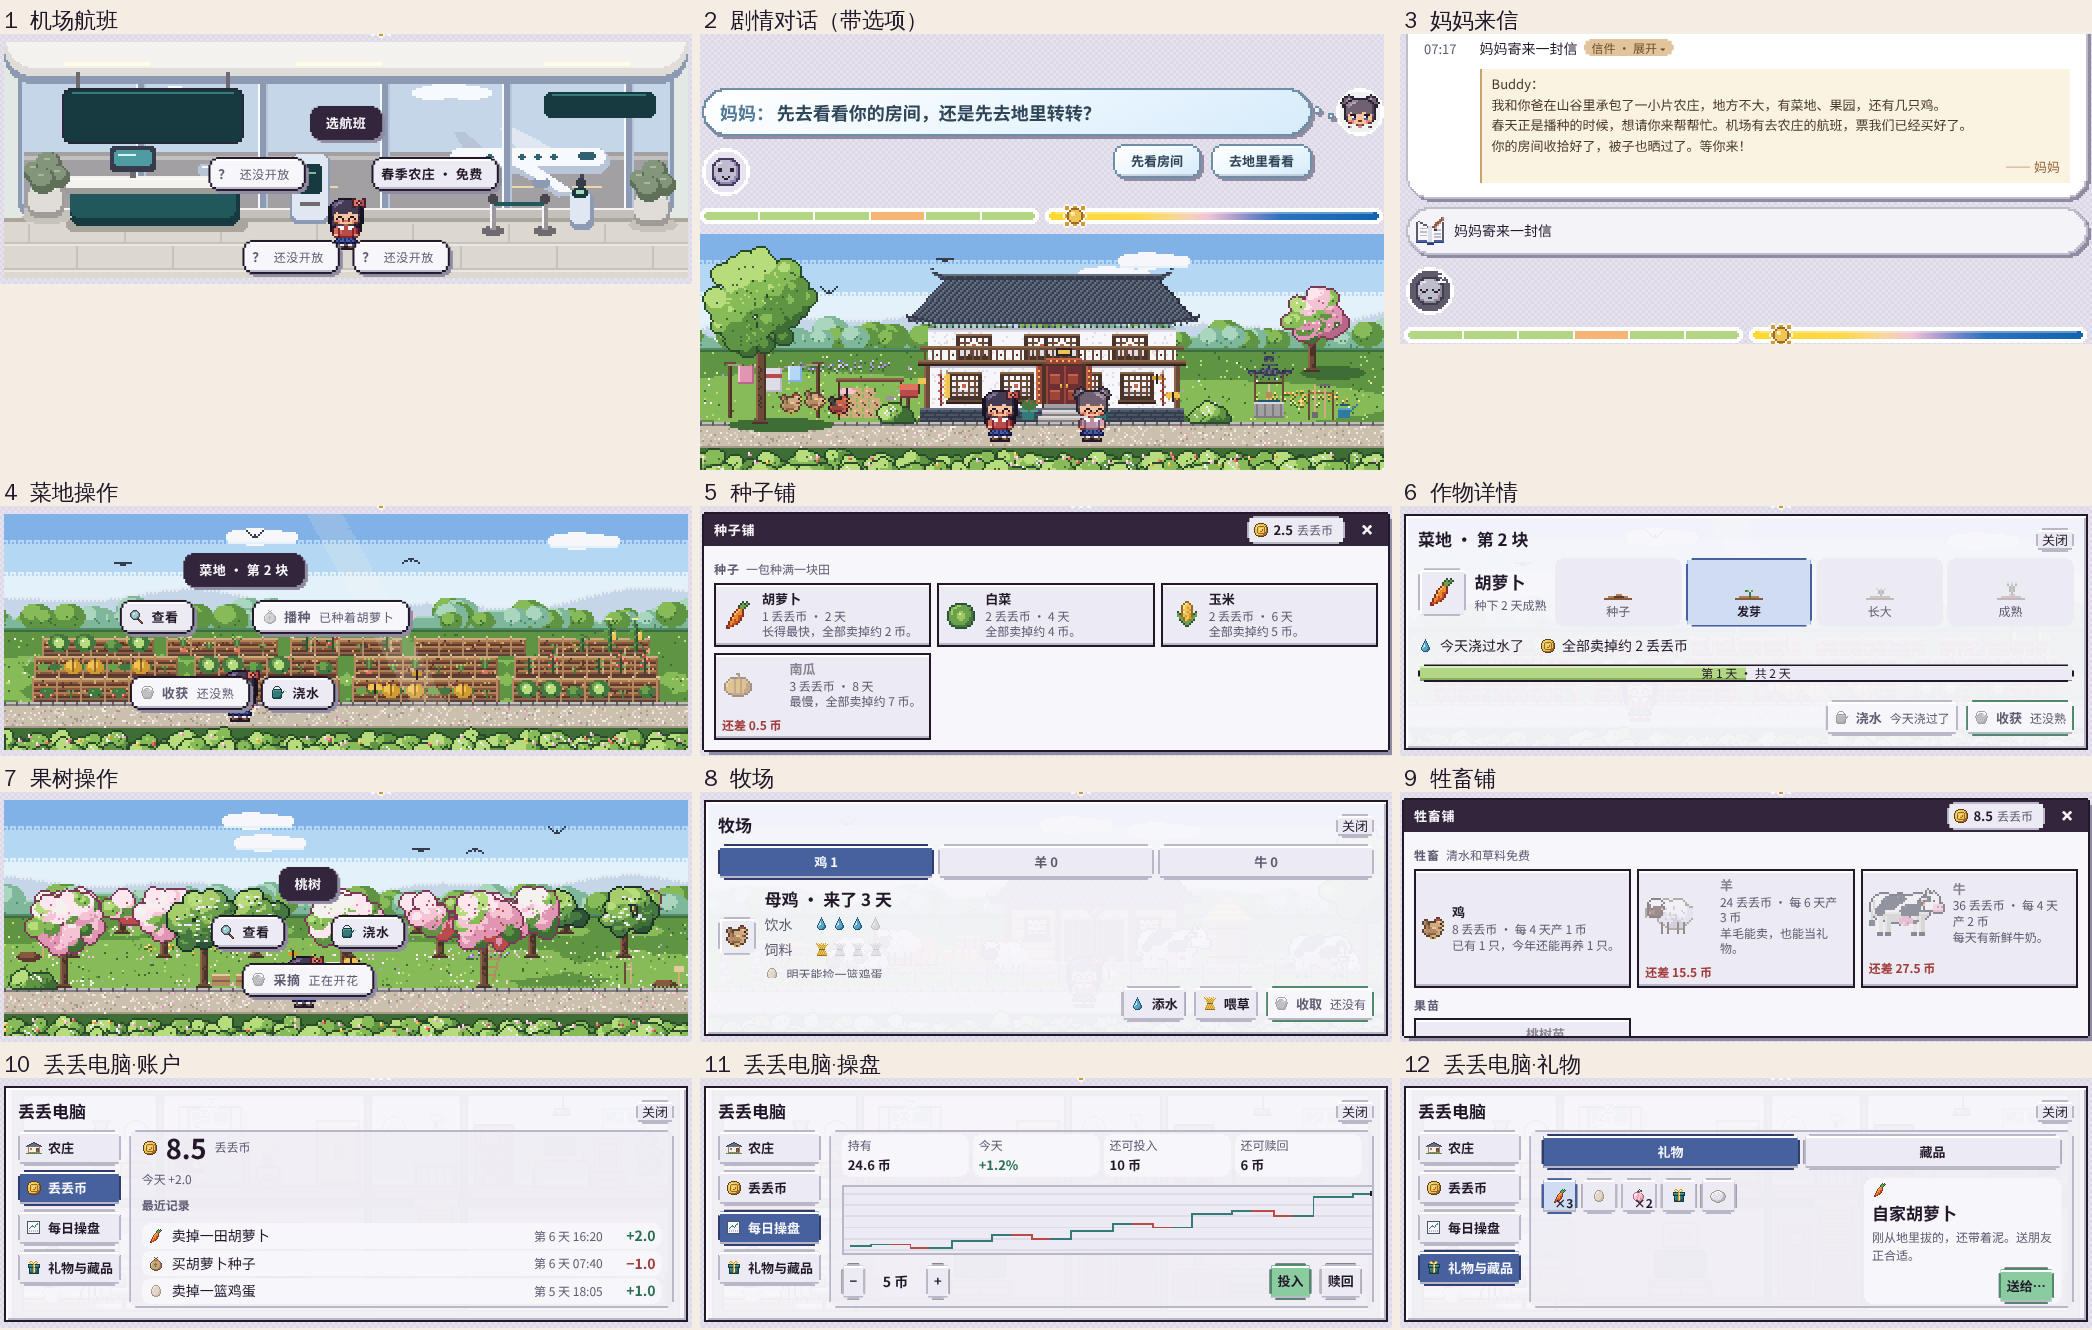
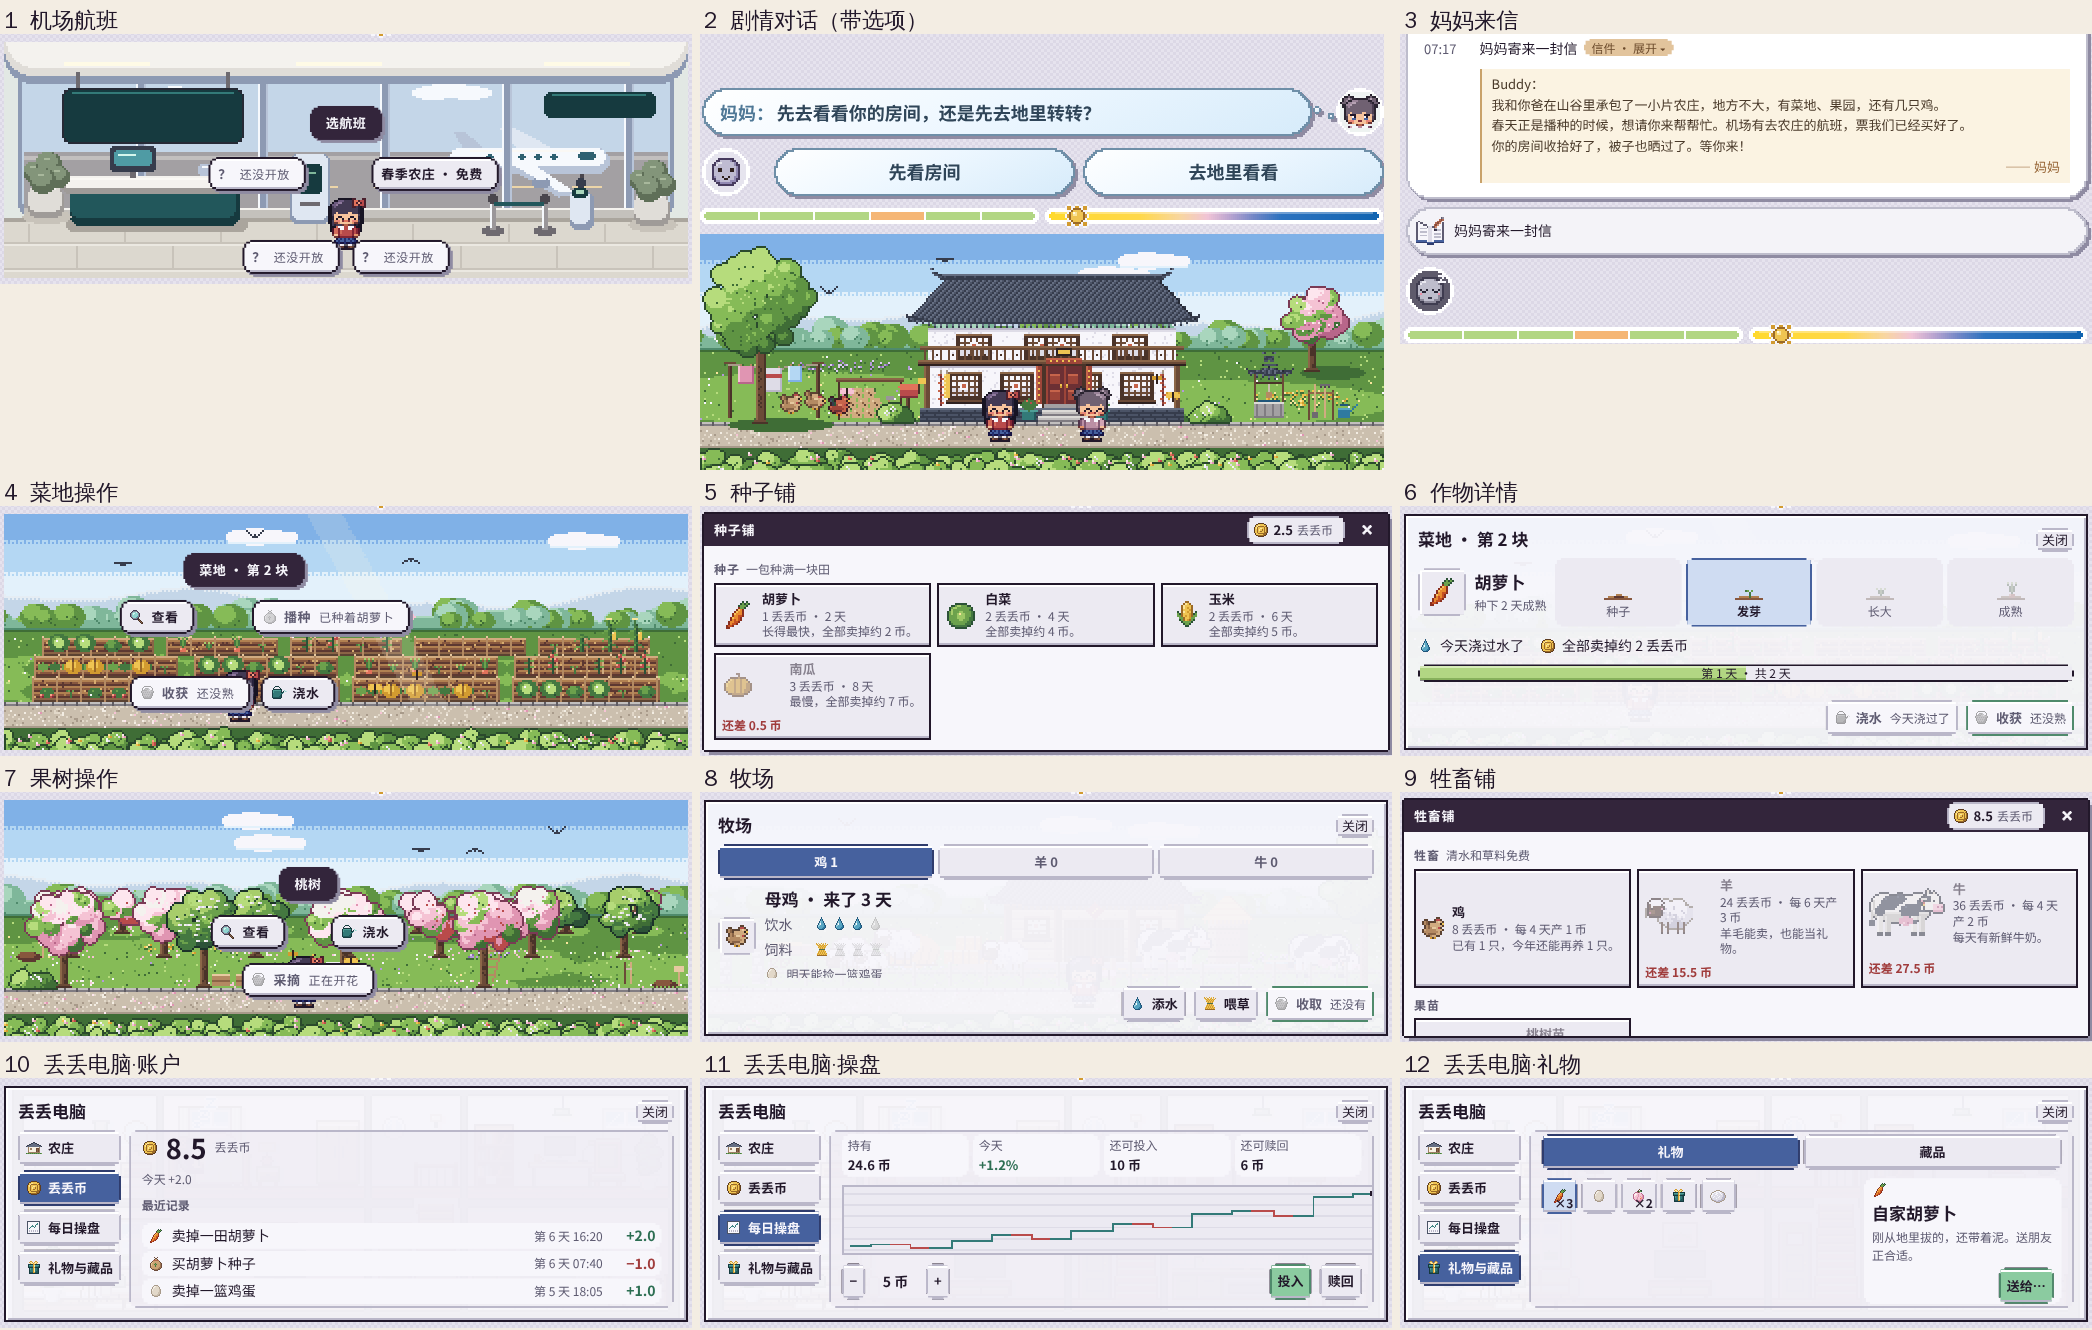
剧情选项放进主角对话框那一排：同高同圆角，按选项个数平分
Claude-Session: https://claude.ai/code/session_01HP37xpvuwwsvGpZEAk6w5s

Changed region(s): [[0.3728, 0.0925, 0.6525, 0.185]]

diff --git a/prototype/demo/ui.css b/prototype/demo/ui.css
@@ -853,15 +853,20 @@ button.fb-pill:focus-visible { outline: 2px dashed var(--fb-deep); outline-offse
   clip-path: polygon(0 0, 8px 0, 8px 2px, 6px 2px, 6px 4px, 4px 4px, 4px 6px, 4px 6px, 4px 4px, 2px 4px, 2px 2px, 0 2px); animation: storyMore 1s steps(2, jump-none) infinite; }
 .story-more[hidden] { display: none; }
 @keyframes storyMore { 0% { opacity: .7; } 100% { opacity: .15; } }
-.story-choices { position: absolute; z-index: 4; top: calc(100% + 8px); right: 72px; display: flex; gap: 10px; }
+/* choices in Buddy's bubble row: same height / round ends as her bubble, the row split evenly */
+.story-choices { position: absolute; z-index: 4; left: var(--tail, 16px); right: 0; top: 50%; height: var(--say-h, 48px); translate: 0 -50%; display: flex; gap: 8px; }
 .story-choices[hidden] { display: none; }
-.story-choices button { position: relative; isolation: isolate; margin: 0; padding: 7px 18px; white-space: nowrap; background: none; border: 0; box-shadow: none; cursor: pointer;
-  font: inherit; font-weight: 700; color: #3d2a1e; font-size: max(13px, var(--ui-font-control)); filter: drop-shadow(3px 3px 0 var(--shadow)); }
-.story-choices button::before, .story-choices button::after { content: ""; position: absolute; z-index: -1; }
-.story-choices button::before { inset: 0; background: var(--pe, #8a6446); clip-path: var(--clip-btn); }
-.story-choices button::after { inset: 2px; background: var(--pf, #ecd5ad); clip-path: var(--clip-btn-in); box-shadow: inset 0 -2px 0 0 rgba(0,0,0,.12), inset 0 2px 0 0 rgba(255,255,255,.5); }
-.peer-hud.quest .story-choices button::after { background: linear-gradient(155deg, #fff 0%, #edf7ff 48%, #d6ebfa 100%); }
-.peer-hud.quest .story-choices button { color: #2f4558; }
-.story-choices button:hover::after { filter: brightness(1.06); }
-.story-choices button:focus-visible::before { background: #3c6e91; }
+.story-choices button { --pe: #8a6446; --pf: #ecd5ad; flex: 1 1 0; min-width: 0; height: 100%; position: relative; isolation: isolate; margin: 0; padding: 0 18px; background: none; border: 0; box-shadow: none;
+  cursor: pointer; font: inherit; font-weight: 700; color: #3d2a1e; font-size: var(--say-fs, 20px); line-height: 1.2; filter: drop-shadow(3px 3px 0 var(--shadow));
+  animation: popin .42s cubic-bezier(.3, 1.6, .5, 1) both; }
+.story-choices button:nth-child(2) { animation-delay: .06s; } .story-choices button:nth-child(3) { animation-delay: .12s; }
+.story-choices button span { display: block; white-space: nowrap; overflow: hidden; text-overflow: ellipsis; }
+.story-choices button .bg, .story-choices button .bg::after { content: ""; position: absolute; inset: 0; z-index: -1; background: var(--pe); clip-path: var(--choice-clip); }
+.story-choices button .bg::after { background: var(--pf); clip-path: var(--choice-in); }
+.story-choices.quest button { --pe: #6f8fa8; color: #2f4558; }
+.story-choices.quest button .bg::after { background: linear-gradient(155deg, #fff 0%, #edf7ff 48%, #d6ebfa 100%); }
+.story-choices button:hover .bg::after { filter: brightness(1.05); }
+.story-choices button:hover { translate: 0 -1px; }
+.story-choices button:active { translate: 1px 1px; filter: drop-shadow(2px 2px 0 var(--shadow)); }
+.story-choices button:focus-visible .bg { background: #3c6e91; }
 @media (prefers-reduced-motion: reduce) { .story-more { animation: none; } }

diff --git a/prototype/demo/story_bubbles.js b/prototype/demo/story_bubbles.js
@@ -2,13 +2,14 @@
 // other people speak in the upper 对方 row (peer_dialogue.js: wooden bubble, "妈妈：",
 // their avatar on the right), Buddy in her own lower bubble. No extra panel and no
 // 继续 button: click the bubble (or Enter / Space) for the next line; a blinking
-// pixel ▼ says there is more. Choices are pills right under the 对方 bubble. Esc
+// pixel ▼ says there is more. Choices take Buddy's own bubble row (she is not
+// speaking then): same height and round ends, the row split evenly between them. Esc
 // folds the talk away (onClose). Quest lines tint the bubble white -> pale blue.
 // While a talk is open the rows never time out. API kept for autumn/spring/summer.
 function createStorySpeech({view,host=view.parentElement,anchor,onClose=()=>{}}){
  const popSpan=popSay.querySelector('span'),peerSpan=peerBubble.querySelector('span');
  const more=document.createElement('i');more.className='story-more';more.setAttribute('aria-hidden','true');
- const choices=document.createElement('div');choices.className='story-choices';choices.hidden=true;peerHud.append(choices);
+ const choices=document.createElement('div');choices.className='story-choices';choices.hidden=true;document.getElementById('moodTalk').append(choices);
  let open=false,advance=null,hero=false,previous=null,keep=0,busyWas=0;
  function mark(){   // exactly one row carries the story classes (tests and styles find it)
   for(const [box,span,on] of [[peerHud,peerSpan,!hero],[popSay,popSpan,hero]]){
@@ -29,8 +30,10 @@ function createStorySpeech({view,host=view.parentElement,anchor,onClose=()=>{}})
   if(hero){if(peerSpeech.phase!=='idle')hidePeerSay();showSay(words);}
   else showPeerSay(words,speaker+'：');
   more.hidden=!!opts;
-  choices.replaceChildren(...(opts||[]).map(o=>{const b=document.createElement('button');b.type='button';b.textContent=o.label;b.onclick=e=>{e.stopPropagation();o.on?.();};return b;}));
-  choices.hidden=!opts||hero;
+  choices.replaceChildren(...(opts||[]).map(o=>{const b=document.createElement('button');b.type='button';b.innerHTML='<i class="bg" aria-hidden="true"></i><span></span>';b.lastChild.textContent=o.label;b.onclick=e=>{e.stopPropagation();o.on?.();};return b;}));
+  choices.hidden=!opts||hero;choices.classList.toggle('quest',special);
+  if(!choices.hidden){const H=popSay.offsetHeight||parseFloat(getComputedStyle(widget).getPropertyValue('--say-h'))||48,[outer,inner]=sayClip(Math.round(H/2)*2,0,12,12,2,0);
+   choices.style.setProperty('--choice-clip',outer);choices.style.setProperty('--choice-in',inner);popBubble(popSay,0);popSay.hidden=true;}
   const box=hero?popSay:peerBubble;box.tabIndex=0;box.setAttribute('role','button');
   box.setAttribute('aria-label',`${speaker}：${spokenText(words)}${opts?'':last?'（点一下结束）':'（点一下继续）'}`);
   mark();cancelAnimationFrame(keep);hold();

diff --git a/docs/FARM_UI.md b/docs/FARM_UI.md
@@ -10,7 +10,7 @@
 | # | 界面 | 用的现有组件 |
 |---|---|---|
 | 1 | 机场航班 | 环形菜单（一圈气泡）：春季农庄 · 免费，三个 ？ 灰掉 |
-| 2 | 剧情对话 | 进现有对话行（`story_bubbles.js`）：别人说话用小屋上方的「对方」木色对话框（名字＋头像），主角用自己下排气泡；点对话框继续，选项画在对方对话框下面，Esc 收起；任务对白白→浅蓝 |
+| 2 | 剧情对话 | 进现有对话行（`story_bubbles.js`）：别人说话用小屋上方的「对方」木色对话框（名字＋头像），主角用自己下排气泡；点对话框继续；有选项时选项占主角气泡那一排（同高同圆角，按个数平分），Esc 收起；任务对白白→浅蓝 |
 | 3 | 妈妈来信 | 写信日信件（日记里「信件 · 展开」），票已由父母买好 |
 | 4/7 | 菜地 / 果树操作 | 环形菜单 + 图标；不能做的项灰掉并写原因 |
 | 5/9 | 种子铺 / 牲畜铺 | 物品面板（`#picker`），标题栏丢丢币余额，钱不够写「还差 x 币」 |

diff --git a/.claude/skills/pixel-art/SKILL.md b/.claude/skills/pixel-art/SKILL.md
@@ -1168,6 +1168,7 @@ Generated images are reference only, never assets. Details: `docs/FARM_UI.md`.
 Owner meant the existing upper 对方 dialogue box (peer_dialogue: wooden bubble, "妈妈：", avatar on
 the right), NOT a big story panel and NOT the small pill over NPC heads (both rejected the same day).
 Other speakers' story lines go there; Buddy's lines go in her own lower bubble. Click the box /
-Enter / Space = next line, a blinking pixel ▼ marks more; choices are pills right under the 对方
-box; Esc folds. Rows never time out while a talk waits. Quest lines: white→pale-blue fill.
+Enter / Space = next line, a blinking pixel ▼ marks more. Choices (owner follow-up) take Buddy's
+own bubble row while she is silent: same height and round ends as her bubble, the row split evenly
+by the number of choices; quest tint applies to them too. Esc folds. Rows never time out while a talk waits. Quest lines: white→pale-blue fill.
 `story_bubbles.js` drives `showPeerSay` / `showSay`; same API for autumn/spring/summer.

diff --git a/docs/AGENT_LOG.md b/docs/AGENT_LOG.md
@@ -7,6 +7,10 @@ owner decisions made, what was not tested. Keep older entries; trim beyond ~40 e
 ---
 
 ## 2026-11-02 · Claude Code
+- Owner: story choices go in Buddy's own bubble row (same height/corners, split evenly), not under
+  the 对方 box. story_bubbles.js + ui.css; autumn + airport regressions pass; board tile 2 updated.
+
+## 2026-11-02 · Claude Code
 - Owner clarified: story dialogue = the upper 对方 row (peer_dialogue, name + avatar), Buddy's lines in
   her own bubble; supersedes the head-pill version an hour earlier. story_bubbles.js drives
   showPeerSay/showSay, holds rows open, click=next, ▼, choices under the box, Esc folds, quest tint.
